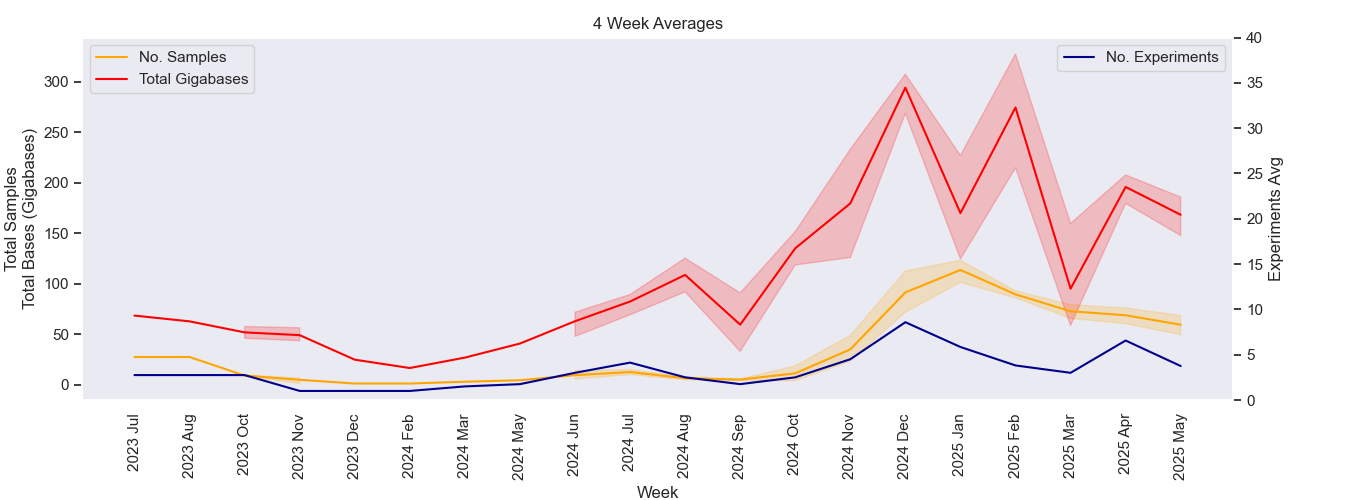
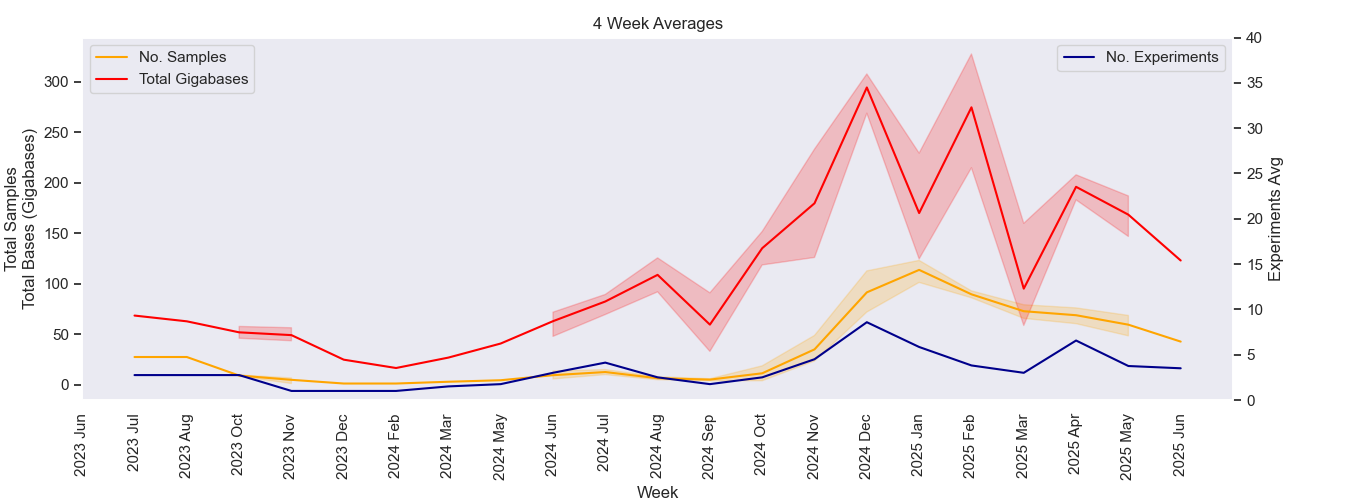
Your commit message here

diff --git a/krona/cgs.html b/krona/cgs.html
@@ -52,8 +52,8 @@ body {
   flex-direction: column;
 }
 </style>
-<H1>Genomics Facility Status: 08:50:20, 12/06/2025</H1>
-<marquee behavior="scroll" scrollamount="20" direction="left" bgcolor="lightgrey">TATTTAGCCACATAGAAACCAACAGCCATATAACTGGTAGCTTTAAGCGGCTCACCTTTAGCATCAACAGGCCACAACCAACCAGAACGTGAAAAAGCGTCCTGCGTGTAGCGAACTGCGATGGGCATACTGTAACCATAAGGCCACGTATTTTGCAAGCTATTTAACTGGCGGCGATTGCGTACCCGACGACCAAAATTAGGGTCAACGCTACCTGTAGGAAGTGTCCGCATAAAGTGCACCGCATGGA</marquee>
+<H1>Genomics Facility Status: 09:08:21, 16/06/2025</H1>
+<marquee behavior="scroll" scrollamount="20" direction="left" bgcolor="lightgrey">GCGACAGGCTCATGCTGATGGTTGGTTTATCGTTTTTGACACTCTCACGTTGGCTGACGACCGATTAGAGGCGTTTTATGATAATCCCAATGCTTTGCGTGACTATTTTCGTGATATTGGTCGTATGGTTCTTGCTGCCGAGGGTCGCAAGGCTAATGATTCACACGCCGACTGCTATCAGTATTTTTGTGTGCCTGAGTATGGTACAGCTAATGGCCGTCTTCATTTCCATGCGGTGCACTTTATGCGG</marquee>
 <TABLE BORDER=0><TR><TD><TABLE class="styled-table"><H3>GigaBases Sequenced</H3>
-<TR><TD><b>Platform</b></TD><TD><b>Week</b></TD><TD><b>Month</b></TD><TD><b>Year</b></TD><TD><b>Total</b></TD></TR><TR><TD>Illumina MiSeq</TD><TD>6.99</TD><TD>22.03</TD><TD>219.84</TD><TD>219.84</TD></TR><TR><TD>Illumina NextSeq</TD><TD>45.84</TD><TD>454.78</TD><TD>2785.0</TD><TD>2785.0</TD></TR><TR><TD>Nanopore PromethION</TD><TD>0.0</TD><TD>254.6</TD><TD>4219.47</TD><TD>4944.2</TD></TR></TABLE></TD><TD><IMG SRC="fig1.png"><IMG SRC="fig2.png"></TD></TR><TR><TD><H3>No. Samples (No. Experiments)</H3>
-<TABLE class="styled-table"><TR><TD><b>Platform</b></TD><TD><b>Week</b></TD><TD><b>Month</b></TD><TD><b>Year</b></TD><TD><b>Total</b></TD></TR><TR><TD>Illumina MiSeq</TD><TD>35 (1)</TD><TD>107 (3)</TD><TD>1119 (31)</TD><TD>1119 (31)</TD></TR><TR><TD>Illumina NextSeq</TD><TD>12 (1)</TD><TD>163 (8)</TD><TD>954 (30)</TD><TD>954 (30)</TD></TR><TR><TD>Nanopore PromethION</TD><TD>0 (0)</TD><TD>21 (7)</TD><TD>273 (137)</TD><TD>428 (162)</TD></TR></TABLE></TD><TD><IMG SRC="fig4.png"></TD></TR></TABLE></HTML>
+<TR><TD><b>Platform</b></TD><TD><b>Week</b></TD><TD><b>Month</b></TD><TD><b>Year</b></TD><TD><b>Total</b></TD></TR><TR><TD>Illumina MiSeq</TD><TD>6.99</TD><TD>14.47</TD><TD>219.84</TD><TD>219.84</TD></TR><TR><TD>Illumina NextSeq</TD><TD>46.66</TD><TD>401.34</TD><TD>2831.66</TD><TD>2831.66</TD></TR><TR><TD>Nanopore PromethION</TD><TD>0.0</TD><TD>254.6</TD><TD>4219.47</TD><TD>4944.2</TD></TR></TABLE></TD><TD><IMG SRC="fig1.png"><IMG SRC="fig2.png"></TD></TR><TR><TD><H3>No. Samples (No. Experiments)</H3>
+<TABLE class="styled-table"><TR><TD><b>Platform</b></TD><TD><b>Week</b></TD><TD><b>Month</b></TD><TD><b>Year</b></TD><TD><b>Total</b></TD></TR><TR><TD>Illumina MiSeq</TD><TD>35 (1)</TD><TD>71 (2)</TD><TD>1119 (31)</TD><TD>1119 (31)</TD></TR><TR><TD>Illumina NextSeq</TD><TD>6 (1)</TD><TD>144 (7)</TD><TD>960 (31)</TD><TD>960 (31)</TD></TR><TR><TD>Nanopore PromethION</TD><TD>0 (0)</TD><TD>21 (7)</TD><TD>273 (137)</TD><TD>428 (162)</TD></TR></TABLE></TD><TD><IMG SRC="fig4.png"></TD></TR></TABLE></HTML>
